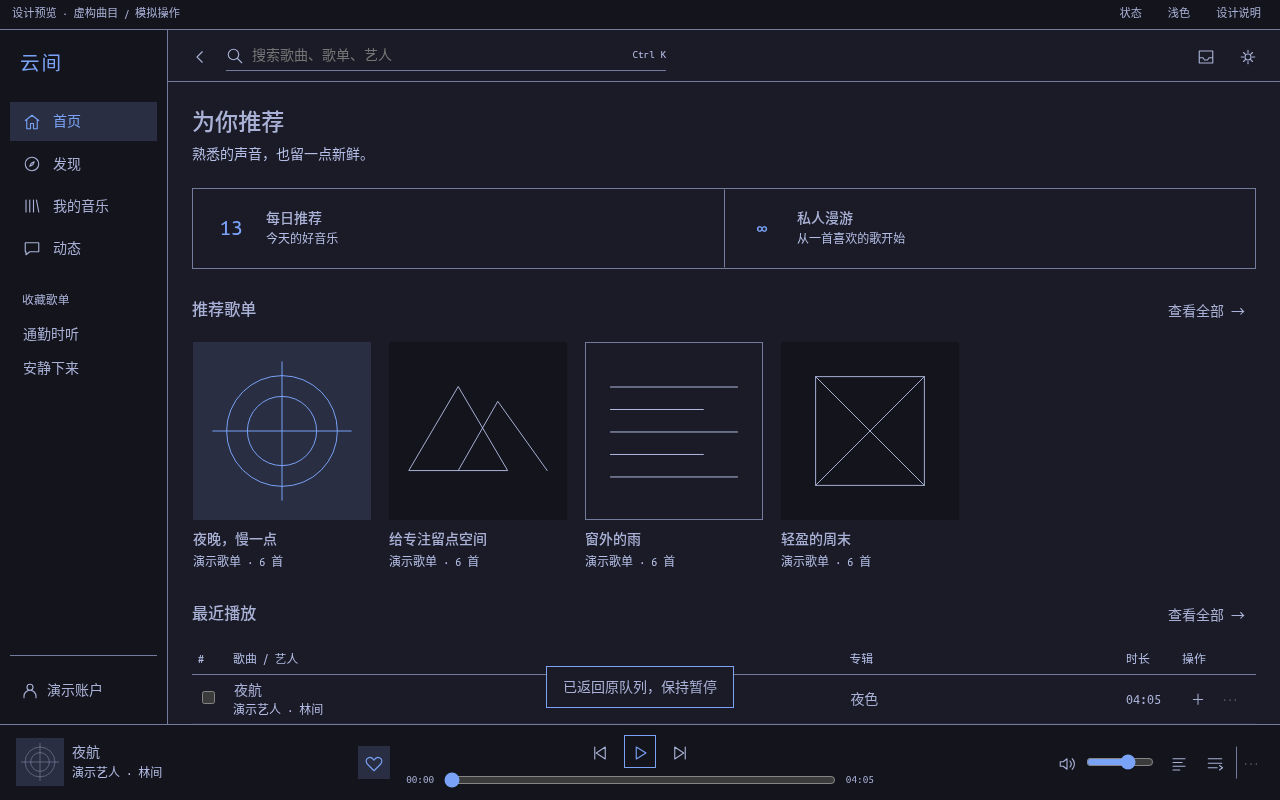
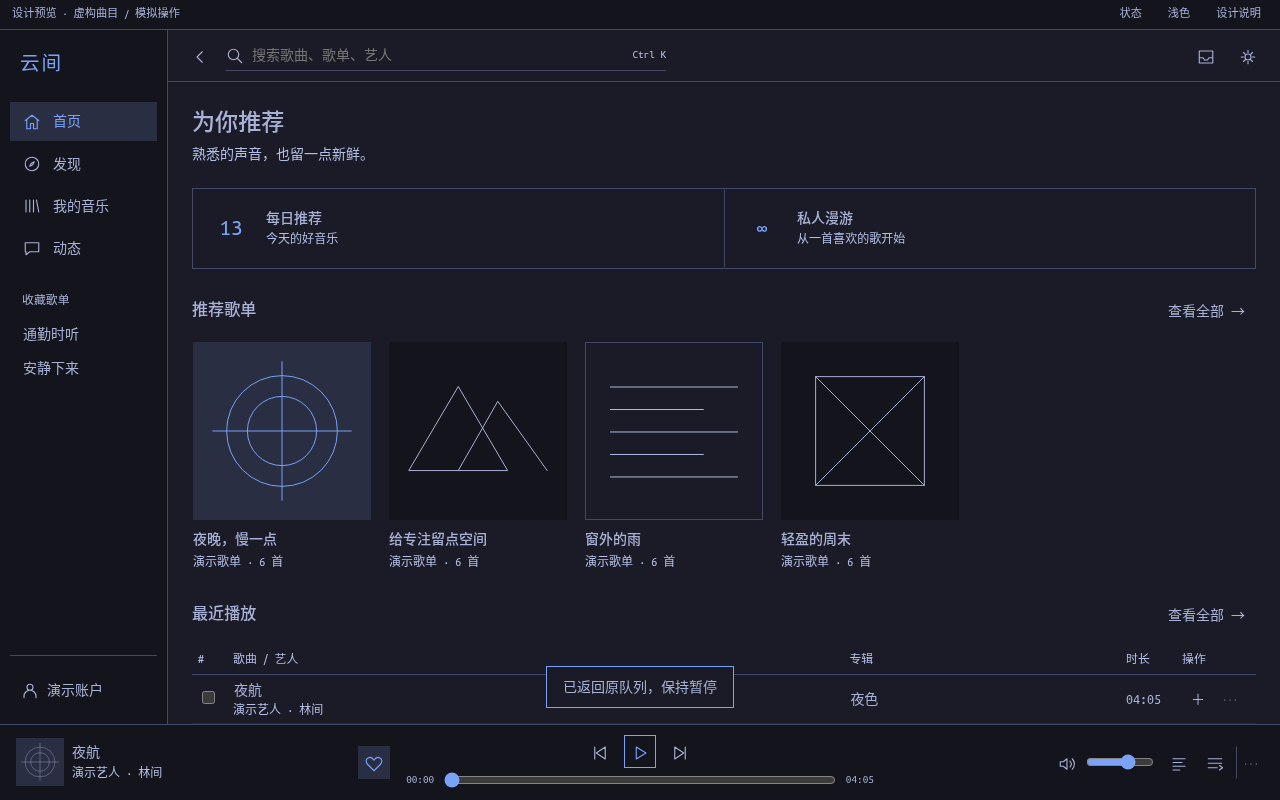
Resolve preview review findings and verify 20 refined workflows

diff --git a/docs/design/preview-refinements.js b/docs/design/preview-refinements.js
@@ -17,7 +17,7 @@ function restoreFocus(old,root){
 }
 function focusRecord(root){const el=document.activeElement;return {wasInside:root.contains(el),data:{...el.dataset}}}
 function fitPanel(){document.querySelector('#content').inert=!!panel&&innerWidth<1128}
-renderPanel=function(){const p=document.querySelector('#panel'),focus=focusRecord(p);if(panel==='comments')commentDraft=p.querySelector('#comment-text')?.value??commentDraft;basePanel();if(panel==='comments'){p.querySelector('header h2').textContent='评论 · '+commentTarget;p.querySelector('#comment-text').value=commentDraft;p.querySelector('#comment-text').addEventListener('input',e=>{commentDraft=e.target.value;commentDrafts.set(commentKey,commentDraft)})}restoreFocus(focus,p);fitPanel()};
+renderPanel=function(){const p=document.querySelector('#panel'),focus=focusRecord(p);if(panel==='comments'&&p.dataset.commentKey===commentKey)commentDraft=p.querySelector('#comment-text')?.value??commentDraft;basePanel();if(panel==='comments'){p.dataset.commentKey=commentKey;p.querySelector('header h2').textContent='评论 · '+commentTarget;p.querySelector('#comment-text').value=commentDraft;p.querySelector('#comment-text').addEventListener('input',e=>{commentDraft=e.target.value;commentDrafts.set(commentKey,commentDraft)})}restoreFocus(focus,p);fitPanel()};
 openPanel=function(kind){baseOpenPanel(kind);fitPanel()};closePanel=function(){if(panel==='comments')commentDraft=document.querySelector('#comment-text')?.value||'';baseClosePanel();fitPanel()};addEventListener('resize',fitPanel);
 function spokenRows(book=false){return `<div class="stack">${['第一章 · 出发','第二章 · 来信','第三章 · 远方'].map((title,i)=>`<div class="list-item row between"><div><h3>${book?title:title.replace('章','集')}</h3><small>${i===0?'继续收听 · 12:30 / 32:00':'未播放 · 28:10'}</small></div><button class="outline" data-play="${i+1}">播放</button></div>`).join('')}</div>`}
 function typedDetail(){const name=esc(collectionName),owned=detailKind==='playlist'&&playlists.includes(collectionName);let kind={user:'用户',artist:'艺人',podcast:'播客',book:'有声书',video:'MV / 视频',album:'专辑',playlist:owned?'我的歌单':'收藏歌单'}[detailKind]||'作品';let buttons=detailKind==='user'?'<button class="outline" data-action="collect">关注</button><button class="outline" data-message="'+name+'">私信</button>':`<button class="primary" data-action="play-all">${detailKind==='podcast'||detailKind==='book'?'继续收听':detailKind==='video'?'播放':'播放全部'}</button><button class="outline" data-action="collect">${['artist','podcast','book'].includes(detailKind)?'关注':'收藏'}</button><button class="outline" data-action="comments">评论</button>`;buttons+=`<button class="icon" data-action="detail-more" aria-label="更多作品操作">${icon('more')}</button>`;let html=`<div class="detail-head"><div class="detail-cover cover">${art(2)}</div><div class="grow"><small>${kind}</small><h1>${name}</h1><p class="muted">${detailKind==='user'?'关注 12 · 粉丝 36 · 演示账户':detailKind==='book'?'演示有声书 · 叙述：林间 · 已购':'演示内容 · 林间 / 远山 / 留白'}</p><div class="row">${buttons}</div></div></div>`;
